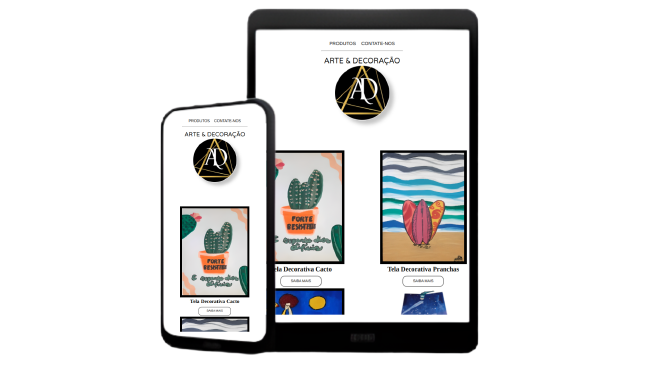
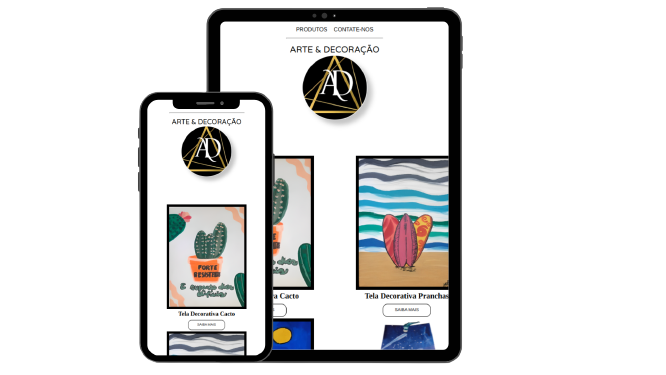
Projeto Galeria adicionado e atualização no estilo

Changed region(s): [[0.2102, 0.0, 0.7207, 0.968]]

diff --git a/src/App.js b/src/App.js
@@ -16,13 +16,13 @@ function App() {
     },
     {
       nome: "Projeto 2",
-      img: noProject,
+      img: galeria,
       site: "https://artedecoracao.vercel.app/",
       repositorio: "https://github.com/Vinicius231/site",
     },
     {
       nome: "Projeto 3",
-      img: noProject,
+      img: galeria,
       site: "https://artedecoracao.vercel.app/",
       repositorio: "https://github.com/Vinicius231/site",
     },

diff --git a/src/styles/projectStyle.css b/src/styles/projectStyle.css
@@ -5,13 +5,16 @@
   .fundoProjeto {
     text-align: center;
     display: grid;
-    width: 35vw;
+    width: 40vw;
+    overflow: hidden;
+    justify-content: center;
   }
   .imgProjeto {
-    width: 41vw;
-    height: 23vw;
+    width: 49vw;
+    height: 30vw;
     margin: auto;
     cursor: pointer;
+    justify-content: center;
   }
   .name {
     font-size: 3.5vw;

diff --git a/src/components/Modal.js b/src/components/Modal.js
@@ -13,8 +13,6 @@ export default function Modal(nome) {
     var eTarget = e.target;
     var main = eTarget.closest("main");
     if (
-      eTarget.classList.contains("fundoProjeto") ||
-      eTarget.classList.contains("containerProject") ||
       eTarget.classList.contains("imgProjeto") ||
       eTarget.classList.contains("name")
     ) {

diff --git a/public/index.html b/public/index.html
@@ -30,7 +30,7 @@
       work correctly both with client-side routing and a non-root public URL.
       Learn how to configure a non-root public URL by running `npm run build`.
     -->
-    <title>React App</title>
+    <title>Portfolio</title>
   </head>
   <body>
     <noscript>You need to enable JavaScript to run this app.</noscript>

diff --git a/src/App.css b/src/App.css
@@ -9,7 +9,7 @@
 .projeto {
   display: flex;
   flex-wrap: wrap;
-  justify-content: space-around;
+  justify-content: space-evenly;
   height: 100vh;
   align-items: center;
 }
